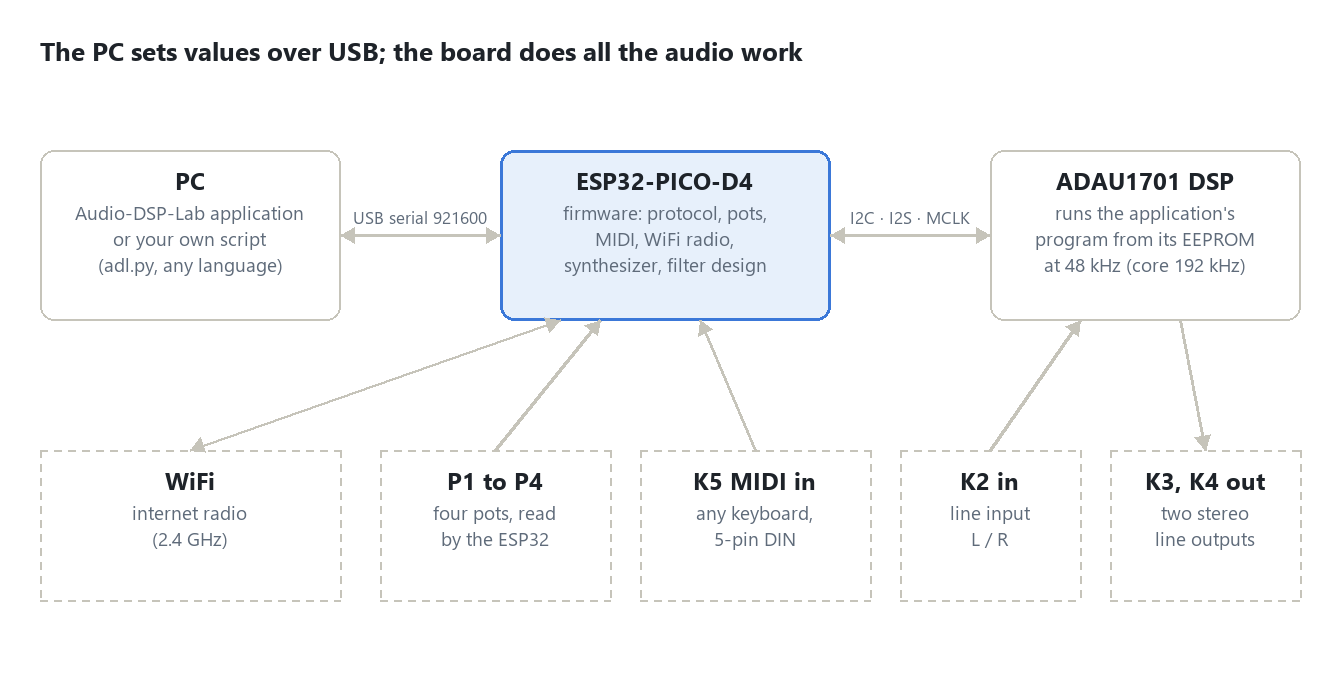
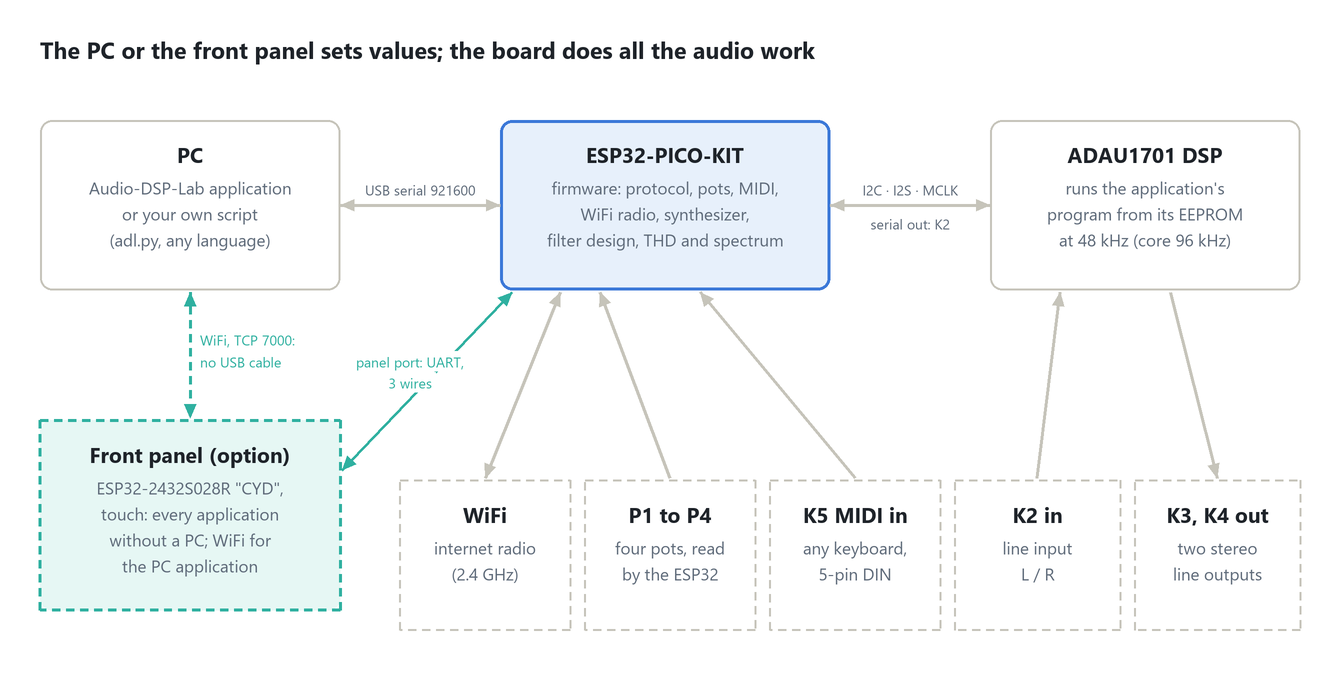
Docs: the front panel in the overview and a complete panel chapter
- docs/images/overview.png drawn anew by tools/Make-Overview.py
  (Pillow, Segoe UI): the front panel as an option, on its own on the
  board's panel port (UART, 3 wires) and as the PC application's WiFi
  link (TCP 7000); also the ESP32-PICO-KIT of either kind, the firmware's
  THD and spectrum, the DSP's serial output back to the ESP32, and the
  core at 96 kHz (the old drawing said 192 kHz).
- Manual: the chapter "The front panel" carries what you need, the
  wiring and the flashing itself, and names the panel's two jobs; the
  overview's caption and "At a glance" name them too.
- Panel.md shows the overview and points to the manual's chapter;
  Installation step 9 points to both; Building lists Make-Overview.py.
- Manual.pdf (39 pages) and Installation.pdf rebuilt in build/docs.

diff --git a/tools/Make-Overview.py b/tools/Make-Overview.py
@@ -1,0 +1,158 @@
+"""Draws docs/images/overview.png: what goes where.
+
+Usage:
+
+    python tools/Make-Overview.py [out.png]
+
+Needs Pillow and the Windows fonts Segoe UI (regular and bold). Drawn at
+twice the size and scaled down, so lines and text come out smooth.
+"""
+
+import os
+import sys
+
+from PIL import Image, ImageDraw, ImageFont
+
+HERE = os.path.dirname(os.path.abspath(__file__))
+OUT = sys.argv[1] if len(sys.argv) > 1 else os.path.join(HERE, '..', 'docs', 'images', 'overview.png')
+
+WIDTH, HEIGHT = 1340, 680
+SCALE = 2
+FONTS = 'C:/Windows/Fonts/'
+
+INK = (30, 35, 41)            # titles
+TEXT = (95, 107, 122)         # the boxes' text
+LINE = (198, 196, 186)        # borders and arrows
+ESP_FILL, ESP_LINE = (231, 240, 251), (59, 120, 216)
+PANEL_FILL, PANEL_LINE = (230, 247, 244), (47, 176, 160)   # the panel's own teal
+WHITE = (255, 255, 255)
+
+image = Image.new('RGB', (WIDTH * SCALE, HEIGHT * SCALE), WHITE)
+draw = ImageDraw.Draw(image)
+
+
+def font(name, size):
+    return ImageFont.truetype(FONTS + name, size * SCALE)
+
+
+TITLE = font('segoeuib.ttf', 23)
+HEAD = font('segoeuib.ttf', 21)
+BODY = font('segoeui.ttf', 17)
+LABEL = font('segoeui.ttf', 14)
+
+
+def s(*values):
+    return [v * SCALE for v in values]
+
+
+def text_centre(x, y, line, face, colour):
+    width = draw.textlength(line, font=face)
+    draw.text((x * SCALE - width / 2, y * SCALE), line, font=face, fill=colour)
+
+
+def dashed_rectangle(box, colour, width=2, dash=8, gap=6):
+    x0, y0, x1, y1 = box
+    for (a, b) in (((x0, y0), (x1, y0)), ((x1, y0), (x1, y1)), ((x1, y1), (x0, y1)), ((x0, y1), (x0, y0))):
+        dashed_line(a, b, colour, width, dash, gap)
+
+
+def dashed_line(a, b, colour, width=2, dash=8, gap=6):
+    (x0, y0), (x1, y1) = a, b
+    length = ((x1 - x0) ** 2 + (y1 - y0) ** 2) ** 0.5
+    steps = int(length // (dash + gap)) + 1
+    for i in range(steps):
+        t0 = i * (dash + gap) / length
+        t1 = min((i * (dash + gap) + dash) / length, 1)
+        if t0 >= 1:
+            break
+        draw.line(s(x0 + (x1 - x0) * t0, y0 + (y1 - y0) * t0, x0 + (x1 - x0) * t1, y0 + (y1 - y0) * t1),
+                  fill=colour, width=width * SCALE)
+
+
+def box(x0, y0, x1, y1, title, lines, kind='solid'):
+    if kind == 'esp':
+        draw.rounded_rectangle(s(x0, y0, x1, y1), radius=12 * SCALE, fill=ESP_FILL, outline=ESP_LINE, width=3 * SCALE)
+    elif kind == 'panel':
+        draw.rounded_rectangle(s(x0, y0, x1, y1), radius=12 * SCALE, fill=PANEL_FILL)
+        dashed_rectangle((x0, y0, x1, y1), PANEL_LINE, width=3)
+    elif kind == 'dashed':
+        dashed_rectangle((x0, y0, x1, y1), LINE)
+    else:
+        draw.rounded_rectangle(s(x0, y0, x1, y1), radius=12 * SCALE, outline=LINE, width=2 * SCALE)
+    centre = (x0 + x1) / 2
+    text_centre(centre, y0 + 20, title, HEAD, INK)
+    for i, line in enumerate(lines):
+        text_centre(centre, y0 + 56 + 26 * i, line, BODY, TEXT)
+
+
+def head(tip, tail, colour):
+    (tx, ty), (bx, by) = tip, tail
+    length = ((tx - bx) ** 2 + (ty - by) ** 2) ** 0.5
+    ux, uy = (tx - bx) / length, (ty - by) / length
+    size, half = 14, 6
+    left = (tx - ux * size - uy * half, ty - uy * size + ux * half)
+    right = (tx - ux * size + uy * half, ty - uy * size - ux * half)
+    draw.polygon([tuple(s(*tip)), tuple(s(*left)), tuple(s(*right))], fill=colour)
+
+
+def arrow(a, b, colour=LINE, both=True, dashed=False):
+    if dashed:
+        dashed_line(a, b, colour, width=3)
+    else:
+        draw.line(s(*a, *b), fill=colour, width=3 * SCALE)
+    head(b, a, colour)
+    if both:
+        head(a, b, colour)
+
+
+def label(x, y, line, colour=TEXT, centre=True):
+    width = draw.textlength(line, font=LABEL)
+    left = x * SCALE - width / 2 if centre else x * SCALE
+    draw.rectangle((left - 4 * SCALE, y * SCALE - 1 * SCALE, left + width + 4 * SCALE, y * SCALE + 19 * SCALE), fill=WHITE)
+    draw.text((left, y * SCALE), line, font=LABEL, fill=colour)
+
+
+# the title
+draw.text(tuple(s(40, 34)), 'The PC or the front panel sets values; the board does all the audio work', font=TITLE, fill=INK)
+
+# the top row: PC, the board's ESP32, the DSP
+box(40, 120, 340, 290, 'PC', ['Audio-DSP-Lab application', 'or your own script', '(adl.py, any language)'])
+box(500, 120, 830, 290, 'ESP32-PICO-KIT', ['firmware: protocol, pots, MIDI,', 'WiFi radio, synthesizer,', 'filter design, THD and spectrum'], 'esp')
+box(990, 120, 1300, 290, 'ADAU1701 DSP', ["runs the application's", 'program from its EEPROM', 'at 48 kHz (core 96 kHz)'])
+arrow((340, 205), (500, 205))
+label(420, 180, 'USB serial 921600')
+arrow((830, 205), (990, 205))
+label(910, 180, 'I2C · I2S · MCLK')
+label(910, 214, 'serial out: K2')
+
+# the front panel, an option: on its own, and the PC's way in over WiFi
+box(40, 420, 340, 610, 'Front panel (option)', ['ESP32-2432S028R "CYD",', 'touch: every application', 'without a PC; WiFi for', 'the PC application'], 'panel')
+arrow((190, 292), (190, 418), PANEL_LINE, dashed=True)
+label(200, 330, 'WiFi, TCP 7000:', PANEL_LINE, centre=False)
+label(200, 352, 'no USB cable', PANEL_LINE, centre=False)
+arrow((342, 470), (512, 292), PANEL_LINE)
+label(410, 352, 'panel port: UART,', PANEL_LINE)
+label(410, 373, '3 wires', PANEL_LINE)
+
+# the board's connectors
+bottom = [
+    (400, 570, 'WiFi', ['internet radio', '(2.4 GHz)']),
+    (585, 755, 'P1 to P4', ['four pots, read', 'by the ESP32']),
+    (770, 940, 'K5 MIDI in', ['any keyboard,', '5-pin DIN']),
+    (955, 1120, 'K2 in', ['line input', 'L / R']),
+    (1135, 1300, 'K3, K4 out', ['two stereo', 'line outputs']),
+]
+for x0, x1, title, lines in bottom:
+    box(x0, 480, x1, 630, title, lines, 'dashed')
+arrow((560, 292), (485, 478), both=True)            # WiFi
+head((600, 292), (670, 478), LINE)
+draw.line(s(670, 478, 600, 292), fill=LINE, width=3 * SCALE)          # the pots, read by the ESP32
+head((700, 292), (855, 478), LINE)
+draw.line(s(855, 478, 700, 292), fill=LINE, width=3 * SCALE)          # MIDI in
+head((1060, 292), (1037, 478), LINE)
+draw.line(s(1037, 478, 1060, 292), fill=LINE, width=3 * SCALE)        # K2 into the DSP
+head((1217, 478), (1170, 292), LINE)
+draw.line(s(1170, 292, 1217, 478), fill=LINE, width=3 * SCALE)        # K3, K4 out of the DSP
+
+image.resize((WIDTH, HEIGHT), Image.LANCZOS).save(OUT, dpi=(144, 144))
+print('written', os.path.abspath(OUT))

diff --git a/docs/Manual.md b/docs/Manual.md
@@ -4,7 +4,7 @@ As of 2026-10-19.
 
 Audio-DSP-Lab turns the Elektor Audio-DSP-FX board into six audio instruments that you run from a Windows PC over USB: a signal generator, an equalizer, an internet radio, an analysis application (frequency response and harmonic distortion), a SigmaStudio mode for your own DSP programs, and a Minimoog-style synthesizer. This manual covers firmware 1.1 and application 1.1, and the optional front panel (panel firmware 1.1).
 
-![Audio-DSP-Lab: the PC sets values over USB, the board does the audio](images/overview.png)
+![Audio-DSP-Lab: the PC over USB, or the optional front panel on its own or as the PC's WiFi link, sets the values; the board does the audio](images/overview.png)
 
 ## At a glance
 
@@ -12,7 +12,7 @@ Audio-DSP-Lab has three parts:
 
 - **The firmware** runs on the board's ESP32. It writes each application's DSP program into the ADAU1701's EEPROM, computes filter coefficients, reads the pots and MIDI, streams the radio, makes the generator's signal and the synthesizer's sound, and analyses the spectrum of the line input for the analysis' THD and Spectrum. It talks to the PC over the board's USB port with a simple text protocol.
 - **The application** (`AudioDspLab.exe`) is the PC's front panel. It shows one page per application, sets every value, and shows what the board reports, including the changes you make with the board's pots.
-- **The front panel** (optional) is a small touch display on a cable to the board, an ESP32 "CYD": it runs the applications without a PC. See [The front panel](#the-front-panel).
+- **The front panel** (optional) is a small touch display on a cable to the board, an ESP32 "CYD". It runs the applications without a PC, and it lets the PC application work over WiFi, without a USB cable. See the chapter [The front panel](#the-front-panel).
 
 The board keeps working without the PC: once an application runs, you can close the window and keep playing. The board can also start an application by itself at power-up.
 
@@ -647,7 +647,35 @@ Any serial terminal works too: 921600 baud, 8N1, **DTR and RTS off** (asserting 
 
 The board can have a front panel of its own: an **ESP32-2432S028R** display board, sold as the "CYD" (cheap yellow display), 2.8 inches, 320 × 240 pixels, with a resistive touch screen. It sits on a three-wire cable to the board's panel port and runs every application without a PC: choose an application, switch the output, set any value, start a sweep, measure THD or a spectrum, change the radio station. The panel and the PC application work side by side; what one changes, the other shows.
 
-Wiring, power and flashing are in [the front panel guide](Panel.md). In short: CYD GPIO22 to the board's GPIO37, CYD GPIO35 to the board's GPIO4, GND to GND, and `Flash-Panel.cmd` writes the panel firmware.
+The panel does two jobs, as the overview at the start of this manual shows: on its own it is the board's front panel, and on your WiFi it is the PC application's way to the board, without a USB cable (see [WiFi control](#wifi-control)). Everything about the panel is in this chapter; [the front panel guide](Panel.md) has the same with notes for building its firmware.
+
+### What you need
+
+- An **ESP32-2432S028R**. The common version with one micro-USB port has an ILI9341 display, which the firmware expects. The version with two ports (USB-C and micro-USB) has an ST7789: its firmware has to be built with `DISPLAY_ST7789` set to 1 (see the front panel guide).
+- Three wires, and a 10 kΩ resistor (recommended).
+- The board with this release's firmware: it has the panel port.
+
+### Wiring
+
+| CYD | | Audio-DSP-FX board |
+| --- | --- | --- |
+| GPIO22 (TX), on the CN1 or P3 connector | → | **GPIO37** (RX): pin IO37 of the ESP32 kit, not connected on the board |
+| GPIO35 (RX), on the P3 connector | ← | **GPIO4** (TX): the pad of R36 ("MIDI out", not fitted), or pin IO4 of the kit |
+| GND | — | GND |
+
+Both sides are 3.3 V logic; no level shifter is needed. Put the 10 kΩ resistor between GPIO37 and 3.3 V on the board: GPIO37 has no pull-up of its own, and its line floats while the panel is off or restarting. The panel works without it too.
+
+The panel needs 5 V, from its own USB port or from the board's 5 V if the board's supply is about 9 V or less (the panel draws up to about 250 mA; above 9 V the board's regulator gets hot). A panel on its own supply lets its TX line go while the board is unplugged, so it does not keep the board half powered; a panel still on the firmware of release 1.1 did, and the board then started badly (see [Troubleshooting](#troubleshooting)).
+
+### Flashing
+
+Connect the CYD by USB; it usually shows up as "USB-SERIAL CH340 (COMn)". In the release's `firmware` folder:
+
+```
+.\Flash-Panel.cmd COM18
+```
+
+(or double-click `Flash-Panel.cmd` and type the port). It writes the panel's single image, `AudioDspLabPanel-merged.bin`, at address 0. The panel keeps one setting of its own, the brightness; flashing resets it to full. Flash the panel and the board from the same release: the panel speaks the board's protocol.
 
 ### Home and settings
 
@@ -718,7 +746,7 @@ Anyone on your network can reach the board this way, as anyone with the USB cabl
 | "Connecting to the board" stays | The board's firmware has no panel port (older than this release) | Flash the board's firmware from this release |
 | | TX and RX swapped, or GND missing | CYD GPIO22 to the board's GPIO37, CYD GPIO35 to GPIO4, GND to GND |
 | The link drops now and then | GPIO37 floats while the panel restarts | Fit the 10 kΩ pull-up from GPIO37 to 3.3 V |
-| Touches land beside their target | Another CYD's touch calibration | Tap the corners and adjust `Config.h` (see the front panel guide) |
+| Touches land beside their target | Another CYD's touch calibration | Tap the corners and adjust `Config.h` (the front panel guide, "For developers") |
 | Colours swapped or the picture upside down | The two-USB CYD with its ST7789 display | Build the panel firmware with `DISPLAY_ST7789` set to 1 |
 | Settings shows "WiFi: none" | No network stored on the board | Enter one in **WiFi networks …** (it serves the radio too) |
 | Settings shows "WiFi: failed" | Neither network answers, or a 5 GHz-only network | The panel tries again every 30 s; use a 2.4 GHz network |

diff --git a/CHANGELOG.md b/CHANGELOG.md
@@ -12,7 +12,7 @@
 - **Spectrum** in the analysis: `spectrum start` measures what comes on the line input without a tone of its own (the output and the tone stay as they are), with THD's FFT: per channel the RMS from 20 Hz to 20 kHz (`spectrum`, `! spectrum`), the five strongest peaks (`spectrum peaks`) and the spectrum (`spectrum points`). The board's open input: about -97.5 dBFS RMS, mains hum near 50 Hz around -105 dBFS. In the application **Measure: Spectrum** (RMS, the strongest peak per channel, the five peaks marked in the spectrum); on the panel a third view, **Spec**.
 - How THD gets its samples: the analysis' DSP program also sends both line inputs, untouched, to the DSP's serial output (SerialOutL on DIG0, SerialOutR on DIG1: MP6, with the clocks on MP10 and MP11), which the ESP32 receives on its second I2S port (GPIO32, 13, 19). The firmware carries the new image; the band-pass cells and the readback settings moved and are taken over. `Analysis-Instructions.md` step 8 describes the serial output.
 - The application's analysis page: **Measure: Frequency Response | THD**; THD shows the spectrum (the tone and its harmonics marked), THD and THD+N per channel in % and dB, and the harmonics. The panel's analysis page: a **Resp** / **THD** / **Spec** key in the plot's corner, Start/Stop, the spectrum and THD and THD+N per channel; a measurement started elsewhere shows itself. A sweep or THD started on one port now reports the output going on to the others.
-- Docs brought up to date: the installation guide has a first measurement with the analysis (the board's own floor) and new troubleshooting rows; the manual has THD and Spectrum examples for the console and Python, the analysis' troubleshooting and a technical note on the line input's path to the ESP32; Building describes the DSP's clock and the measurement's memory. The PDFs of the manual and the installation guide are built again.
+- Docs brought up to date: the installation guide has a first measurement with the analysis (the board's own floor) and new troubleshooting rows; the manual has THD and Spectrum examples for the console and Python, the analysis' troubleshooting and a technical note on the line input's path to the ESP32; Building describes the DSP's clock and the measurement's memory. The overview drawing shows the front panel, on its own and as the PC's WiFi link (`tools/Make-Overview.py` draws it now), and the manual's front panel chapter carries the wiring and flashing too. The PDFs of the manual and the installation guide are built again.
 - Diagnostics for the serial output and the heap: `diag clocks` (the serial output's clocks and its data pin), `diag capture` (levels from the DC offset, frequency, DC), `diag record` (contiguous frames), `diag thd-test` (the THD analysis on a synthetic signal), `diag blocks` (the heap's free blocks). New error `no-clock`.
 
 ## 1.1 — front panel and WiFi control

diff --git a/docs/Panel.md b/docs/Panel.md
@@ -1,8 +1,12 @@
 # The front panel
 
-A touch front panel for the board: an **ESP32-2432S028R** display board (the "CYD", "cheap yellow display": 2.8″, 320 × 240, resistive touch) on a cable to the board's panel port. With it the board works without a PC: choose an application, switch the output, and set every value. The panel and the PC application can work side by side; what one changes, the other shows.
+A touch front panel for the board, and the PC application's way to the board over WiFi: an **ESP32-2432S028R** display board (the "CYD", "cheap yellow display": 2.8″, 320 × 240, resistive touch) on a cable to the board's panel port. With it the board works without a PC: choose an application, switch the output, and set every value. The panel and the PC application can work side by side; what one changes, the other shows.
 
-It has the home screen and a settings screen, each application's parameters as tiles with a value editor, the output switch and the knob strip, and pages made for the applications: the equalizer's curve, the radio's station keys, the analysis' sweep and plot with its THD measurement, and the synthesizer's sections with its filter and envelope graphs.
+![What goes where: the panel on its own, or as the PC's WiFi link](images/overview.png)
+
+The manual's chapter "The front panel" covers the same for users, with pictures of every page; this guide adds the notes for building the panel's firmware.
+
+It has the home screen and a settings screen, each application's parameters as tiles with a value editor, the output switch and the knob strip, and pages made for the applications: the equalizer's curve, the radio's station keys, the analysis' sweep and plot with its THD and Spectrum, and the synthesizer's sections with its filter and envelope graphs.
 
 ## What you need
 

diff --git a/docs/Installation.md b/docs/Installation.md
@@ -126,7 +126,7 @@ For your own DSP programs, install Analog Devices **SigmaStudio 4.7** and connec
 
 ## 9. Optional: the front panel
 
-A touch panel on an ESP32-2432S028R ("CYD") display board runs the applications without a PC and lets the PC application work over WiFi. Three wires connect it to the board (CYD GPIO22 to the board's GPIO37, CYD GPIO35 to GPIO4, and GND); `firmware\Flash-Panel.cmd` writes its firmware over the CYD's own USB port. Wiring, power and use: [the front panel guide](Panel.md).
+A touch panel on an ESP32-2432S028R ("CYD") display board runs the applications without a PC and lets the PC application work over WiFi. Three wires connect it to the board (CYD GPIO22 to the board's GPIO37, CYD GPIO35 to GPIO4, and GND); `firmware\Flash-Panel.cmd` writes its firmware over the CYD's own USB port. Wiring, power and use: the manual's chapter "The front panel", or [the front panel guide](Panel.md).
 
 ## Updating
 

diff --git a/docs/Building.md b/docs/Building.md
@@ -12,7 +12,7 @@ This guide is for developers: building the firmware and the application, running
 | `firmware/MidiMonitor/` | A separate diagnostic sketch: prints what arrives on the MIDI input |
 | `app/` | The Windows application (.NET 10, WPF), its core library and tests |
 | `sigmastudio/` | The DSP programs as SigmaStudio projects, with their recipes |
-| `tools/` | Flash tool, release builder, Python client, image converter, PDF builder |
+| `tools/` | Flash tool, release builder, Python client, image converter, PDF builder, `Make-Overview.py` (draws `docs/images/overview.png`, needs Pillow) |
 | `docs/` | Manual, installation guide, protocol, this guide |
 
 ## The firmware
